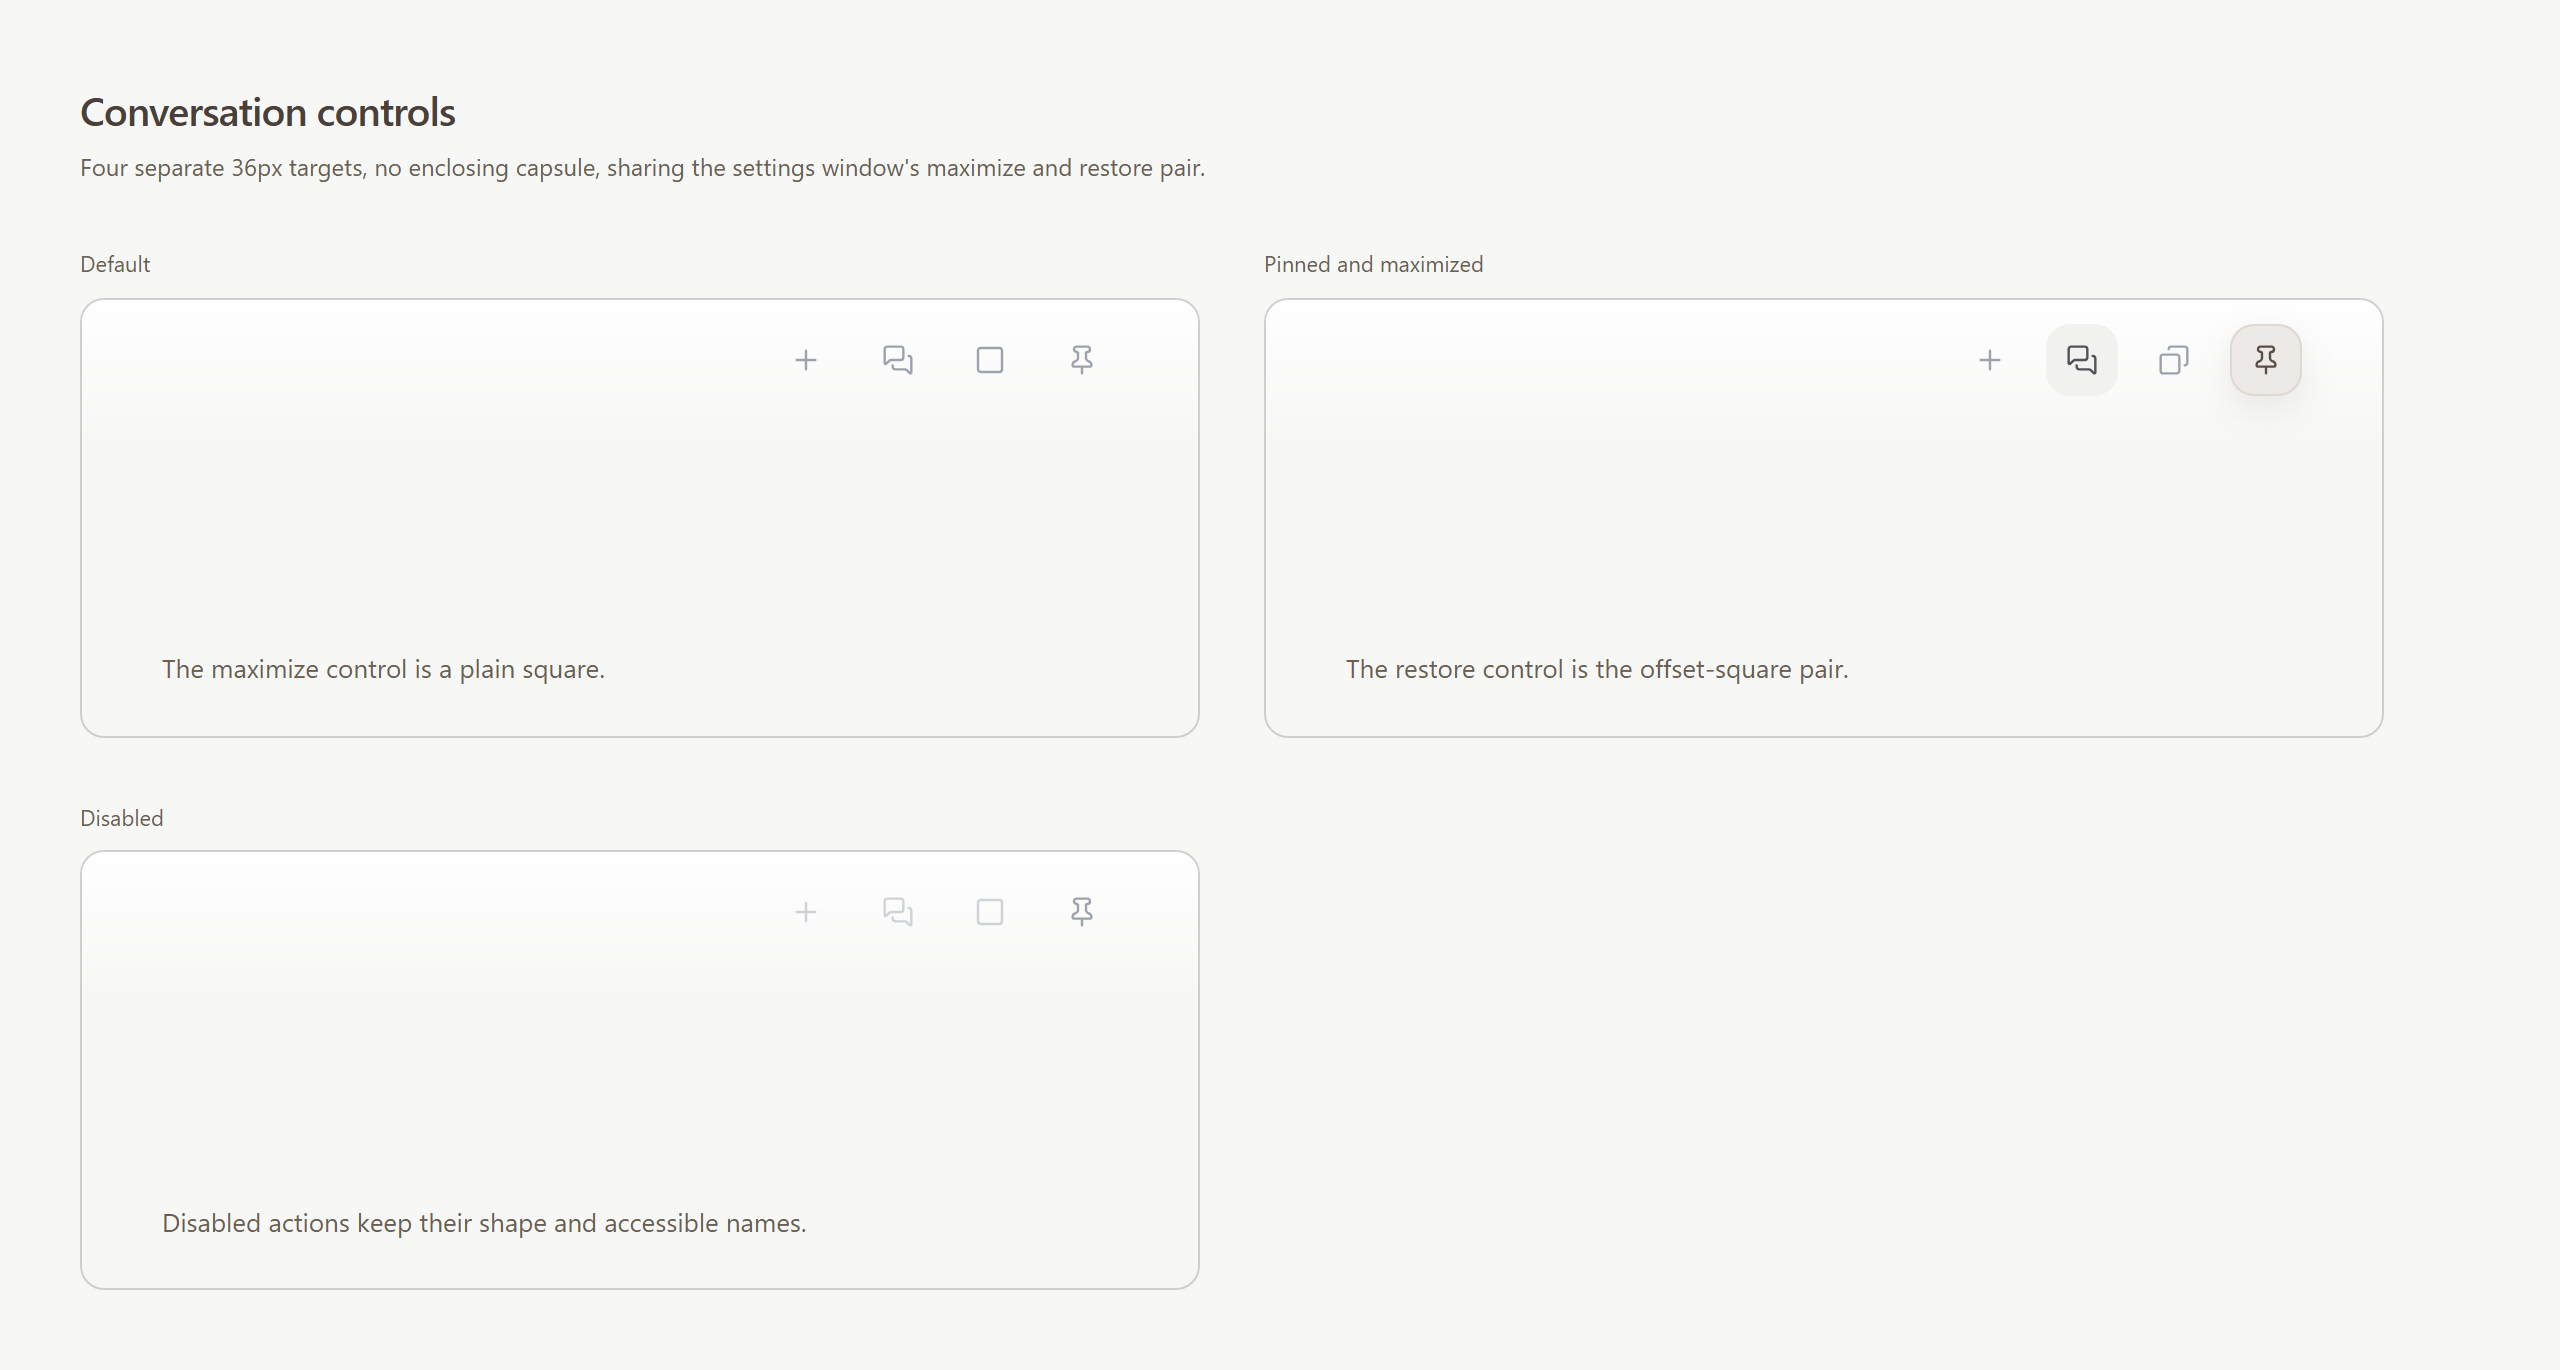
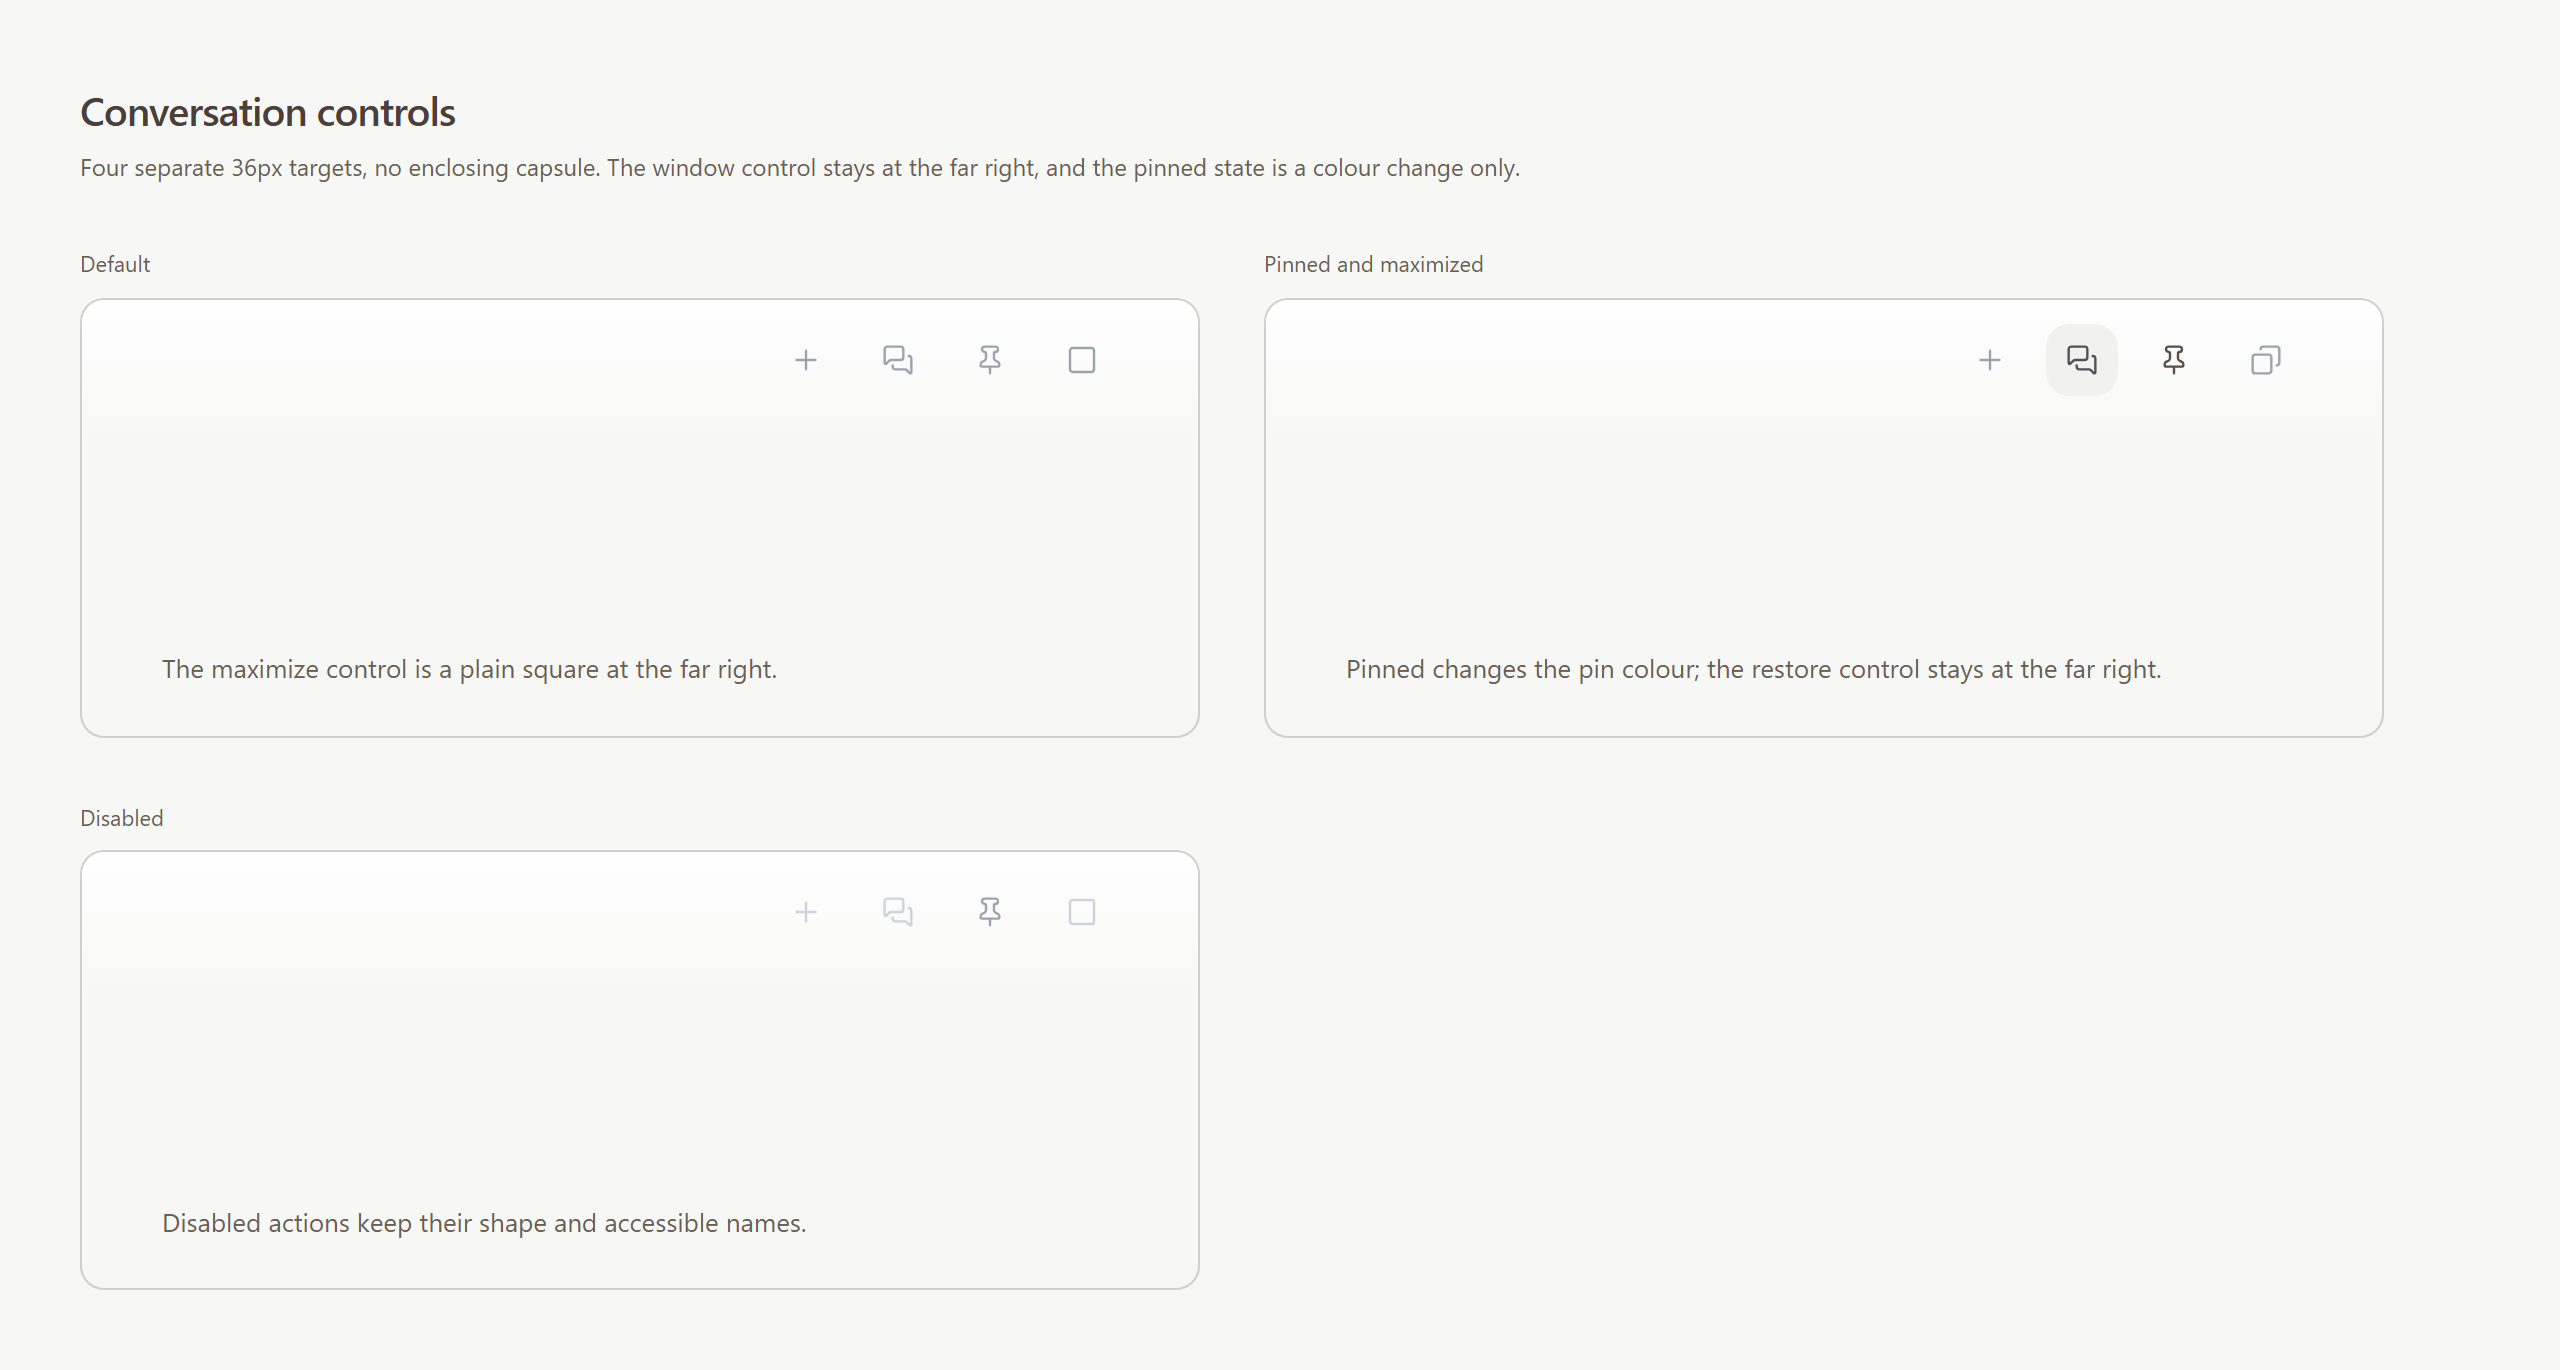
fix(desktop): place window control last and simplify pinned state

diff --git a/apps/desktop/src/views/SearchView/components/ConversationPanel/components/ConversationToolbar.vue b/apps/desktop/src/views/SearchView/components/ConversationPanel/components/ConversationToolbar.vue
@@ -148,6 +148,20 @@
             </div>
 
             <button
+                v-if="canPin"
+                type="button"
+                class="toolbar-button"
+                :class="isPinned ? 'toolbar-button--pinned' : ''"
+                :aria-label="t('conversation.toolbar.pinWindow')"
+                :aria-pressed="isPinned"
+                data-drag-exclude="true"
+                @mousedown.stop
+                @click.stop="togglePinned"
+            >
+                <AppIcon name="pin" class="h-4 w-4" />
+            </button>
+
+            <button
                 type="button"
                 class="toolbar-button"
                 :class="disabled ? 'toolbar-button--disabled' : ''"
@@ -166,20 +180,6 @@
                     class="h-4 w-4"
                     :class="isMaximized ? '-scale-x-100' : ''"
                 />
-            </button>
-
-            <button
-                v-if="canPin"
-                type="button"
-                class="toolbar-button"
-                :class="isPinned ? 'toolbar-button--pinned' : ''"
-                :aria-label="t('conversation.toolbar.pinWindow')"
-                :aria-pressed="isPinned"
-                data-drag-exclude="true"
-                @mousedown.stop
-                @click.stop="togglePinned"
-            >
-                <AppIcon name="pin" class="h-4 w-4" />
             </button>
         </div>
     </div>
@@ -200,8 +200,7 @@
         color: var(--color-conversation-toolbar);
         transition:
             color var(--duration-quick) var(--ease-smooth-out),
-            background-color var(--duration-quick) var(--ease-smooth-out),
-            box-shadow var(--duration-quick) var(--ease-smooth-out);
+            background-color var(--duration-quick) var(--ease-smooth-out);
     }
 
     .toolbar-button:hover,
@@ -209,19 +208,16 @@
     .toolbar-button--active {
         background: var(--color-surface-hover);
         color: var(--color-conversation-toolbar-hover-text);
-        box-shadow: none;
     }
 
     .toolbar-button--pinned {
-        background: var(--color-conversation-toolbar-pinned);
         color: var(--color-conversation-toolbar-pinned-text);
-        box-shadow: var(--shadow-conversation-toolbar-pinned);
     }
 
     .toolbar-button--pinned:hover,
     .toolbar-button--pinned:focus-visible {
-        background: var(--color-conversation-toolbar-pinned-hover);
-        color: var(--color-text-primary);
+        background: var(--color-surface-hover);
+        color: var(--color-conversation-toolbar-pinned-text);
     }
 
     .toolbar-button--disabled {

diff --git a/apps/desktop/src/styles/tokens/semantic.css b/apps/desktop/src/styles/tokens/semantic.css
@@ -126,24 +126,7 @@
     --color-message-action-surface: var(--color-gray-100);
     --color-conversation-toolbar: var(--color-chrome-gray-400);
     --color-conversation-toolbar-hover-text: var(--color-chrome-gray-600);
-    --color-conversation-toolbar-pinned: color-mix(
-        in srgb,
-        var(--color-secondary) 90%,
-        var(--color-white)
-    );
-    --color-conversation-toolbar-pinned-hover: color-mix(
-        in srgb,
-        var(--color-secondary) 95%,
-        var(--color-white)
-    );
     --color-conversation-toolbar-pinned-text: var(--color-primary-600);
-    --color-conversation-toolbar-pinned-border: color-mix(
-        in srgb,
-        var(--color-primary-200) 78%,
-        transparent
-    );
-    --shadow-conversation-toolbar-pinned:
-        inset 0 0 0 1px var(--color-conversation-toolbar-pinned-border), var(--shadow-control-warm);
 
     /* ── Chrome ──────────────────────────────────────────────────────────── */
 

diff --git a/apps/desktop/tests/views/SearchView/ConversationToolbar.test.ts b/apps/desktop/tests/views/SearchView/ConversationToolbar.test.ts
@@ -152,6 +152,15 @@ describe('user uses the conversation toolbar', () => {
         wrapper.unmount();
     });
 
+    it('user finds the maximize control at the far right of the toolbar', () => {
+        const wrapper = mountToolbar({ isPinned: true, isMaximized: false });
+
+        const buttons = wrapper.findAll('button');
+        expect(buttons.at(-1)!.find('[data-icon="maximize-square"]').exists()).toBe(true);
+
+        wrapper.unmount();
+    });
+
     it('user gets every toolbar button labelled for assistive technology', () => {
         const wrapper = mountToolbar();
 

diff --git a/docs/agents/design-system.md b/docs/agents/design-system.md
@@ -73,7 +73,8 @@ an icon package directly.
   actions; they read as resize handles rather than window state.
 - **Conversation controls:** `session-history` uses the overlapping-message glyph
   rather than a clock. `copy` uses the clipboard glyph rather than two sheets. The
-  four controls use separate 36px targets without an enclosing capsule.
+  four controls use separate 36px targets without an enclosing capsule, and the
+  pinned state changes icon colour only rather than adding a raised container.
 - **Attribution:** Lucide, licensed ISC (<https://lucide.dev>).
 
 Replacing the icon set is `breaking`: every glyph and the stroke width change.
